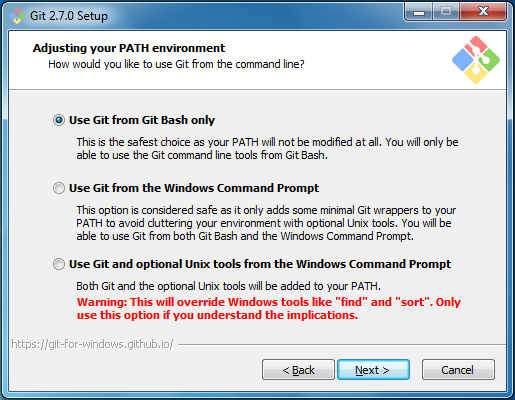
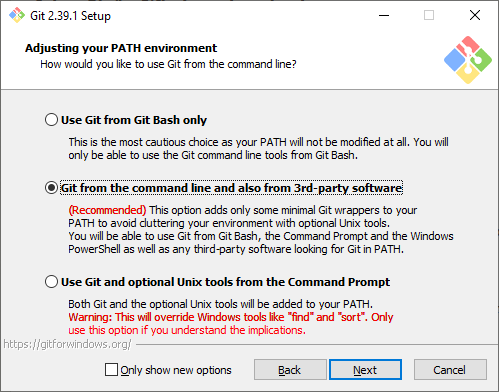
Update installation instructions

diff --git a/installation.md b/installation.md
@@ -1,6 +1,6 @@
 # Installation
 
-Please run through all the steps below before the workshop tomorrow, as installation has a habit of taking up all the available time.  If you get stuck, please send me a message on slack beforehand and I'll try and help.
+Please run through all the steps below before the workshop, as installation has a habit of taking up all the available time.  If you get stuck, please send me a message on Teams beforehand and I'll try and help.
 
 ## Install git
 
@@ -10,9 +10,8 @@ Instructions here vary by platform.  Alternative (and more battle tested) instru
 
 In addition to "git" itself, you need a whole bunch of tools that simulate a minimal unix environment.  This is a bit weird, and I apologise.  Git was originally a unix tool, but it can be made to some degree to act like a windows command line tool.  For the workshop you'll be using the simulated unix environment though.
 
-1. Go to https://git-scm.com/download/win and the installer will download automatically ([direct link](https://github.com/git-for-windows/git/releases/download/v2.16.1.windows.3/Git-2.16.1.3-64-bit.exe))
-2. Run the installer, accepting all the defaults, **except**
-3. When the screen comes up saying "Which editor would you like Git to use", select something other than vi.  Nano is fine (the first element in the dropdown when I looked).  If you have [Notepad++](https://notepad-plus-plus.org) installed you might select that instead.
+1. Go to https://git-scm.com/download/win and download the latest version (it should be the first link).
+2. Run the installer, accepting all the defaults
 
 * Either of the options "Use Git from Git Bash only" or "Use Git from the Windows Command Prompt" should be safe, while the "Use Git and optional Unix tools from the Windows Command Prompt" is not a good option as hinted by the big red warning underneath).
 
@@ -24,7 +23,7 @@ In addition to "git" itself, you need a whole bunch of tools that simulate a min
 
 ![windows-git-terminal](pics/windows-git-terminal.png).
 
-Test that it works by running Start -> Git -> Git Bash which should open a window that looks a lot like cmd.exe; in this window type `git --version` and you should see something like `git version 2.16.1.windows.3` in response.
+Test that it works by running Start -> Git -> Git Bash which should open a window that looks a lot like cmd.exe; in this window type `git --version` and you should see something like `git version 2.39.1.windows.1` in response.
 
 ### Mac OS X / macOS
 
@@ -74,33 +73,6 @@ GitHub is not git (it's built on top of git) and is not required for using git. 
 1. Go to https://github.com and register using your Imperial email address (you'll need that address added so you can get the education account).
 2. (optional) If you don't like using your Imperial email address, after registering go to https://github.com/settings/emails and add your preferred email address. You can set that as primary later if you want.
 3. Go to https://github.com/edu and click "Request a discount".  Add yourself as a Student or Researcher.  If you're a student ask for an "individual account".  If you're a PI you might be more interested in the "Organisation account".  Because you've signed up with your Imperial address this should be approved immediately via email.
-4. Let me know (either on slack or email) and I will add you to the [mrc-ide](https://github.com/mrc-ide) organisation, which is great for collaboration and comes with unlimited private repos.  Please tell me your github username when you do this!
+4. Let me know (either on Teams or email) and I will add you to the [mrc-ide](https://github.com/mrc-ide) organisation, which is great for collaboration and comes with unlimited private repos.  Please tell me your github username when you do this!
 
-## Additional configuration notes (optional)
-
-Setting an editor (that is not `vi`) up:
-
-Windows (x86):
-
-```
-git config --global core.editor "'C:/Program Files/Notepad++/notepad++.exe' -multiInst -nosession"
-```
-
-Windows (x64)
-
-```
-git config --global core.editor "'C:/Program Files (x86)/Notepad++/notepad++.exe' -multiInst -nosession"
-```
-
-Mac OS X & Linux:
-
-```
-git config --global core.editor "nano --tempfile"
-```
-
-Some nice aliases (that are [surprisingly common](http://blog.kfish.org/2010/04/git-lola.html))
-
-```
-git config --global alias.lol "log --graph --decorate --pretty=oneline --abbrev-commit"
-git config --global alias.lola "log --graph --decorate --pretty=oneline --abbrev-commit --all"
-```
+Even if you have a github account already, please set up [two factor authentication (2FA)](https://docs.github.com/en/authentication/securing-your-account-with-two-factor-authentication-2fa/configuring-two-factor-authentication) as soon as possible.
